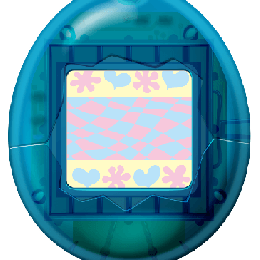
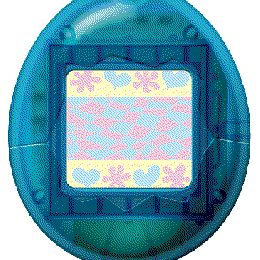
Wip test bg gabbro and emery

diff --git a/Tama-Client/src/c/tamagotchi.c b/Tama-Client/src/c/tamagotchi.c
@@ -511,6 +511,8 @@ static void main_window_load(Window *window) {
   s_bitmap_bg = gbitmap_create_with_resource(RESOURCE_ID_BG_IMAGE_CHALK);
   #elif defined(PBL_PLATFORM_GABBRO)
   s_bitmap_bg = gbitmap_create_with_resource(RESOURCE_ID_BG_IMAGE_GABBRO);
+  #elif defined(PBL_PLATFORM_EMERY)
+  s_bitmap_bg = gbitmap_create_with_resource(RESOURCE_ID_BG_IMAGE_EMERY);
   #else
   s_bitmap_bg = gbitmap_create_with_resource(RESOURCE_ID_BG_IMAGE);
   #endif
@@ -523,6 +525,8 @@ static void main_window_load(Window *window) {
   s_background_layer = bitmap_layer_create(GRect(0, 0, 180, 180));
 #elif defined(PBL_PLATFORM_GABBRO)
     s_background_layer = bitmap_layer_create(GRect(0, 0, 260, 260));
+#elif defined(PBL_PLATFORM_EMERY)
+    s_background_layer = bitmap_layer_create(GRect(0, 0, 200, 228));
 #else
   s_background_layer = bitmap_layer_create(GRect(0, 0, 144, 168));
 #endif
@@ -545,6 +549,10 @@ static void main_window_load(Window *window) {
   // Create icons layer
 #if defined(PBL_PLATFORM_CHALK)
   s_icons_layer = layer_create(GRect(0+18, 24+6, 144, 146));
+#elif defined(PBL_PLATFORM_GABBRO)
+  s_icons_layer = layer_create(GRect(0+58, 24+46, 144, 146));
+#elif defined(PBL_PLATFORM_EMERY)
+  s_icons_layer = layer_create(GRect(0+28, 24+30, 144, 146));
 #else
   s_icons_layer = layer_create(GRect(0, 24, 144, 146));
 #endif
@@ -556,6 +564,10 @@ static void main_window_load(Window *window) {
   // Create screen Layer
 #if defined(PBL_PLATFORM_CHALK)
   s_screen_layer = layer_create(GRect(8+18, 51+6, 128, 64));
+#elif defined(PBL_PLATFORM_GABBRO)
+  s_screen_layer = layer_create(GRect(8+58, 51+46, 128, 64));
+#elif defined(PBL_PLATFORM_EMERY)
+  s_screen_layer = layer_create(GRect(8+28, 51+30, 128, 64));
 #else
   s_screen_layer = layer_create(GRect(8, 51, 128, 64));
 #endif
